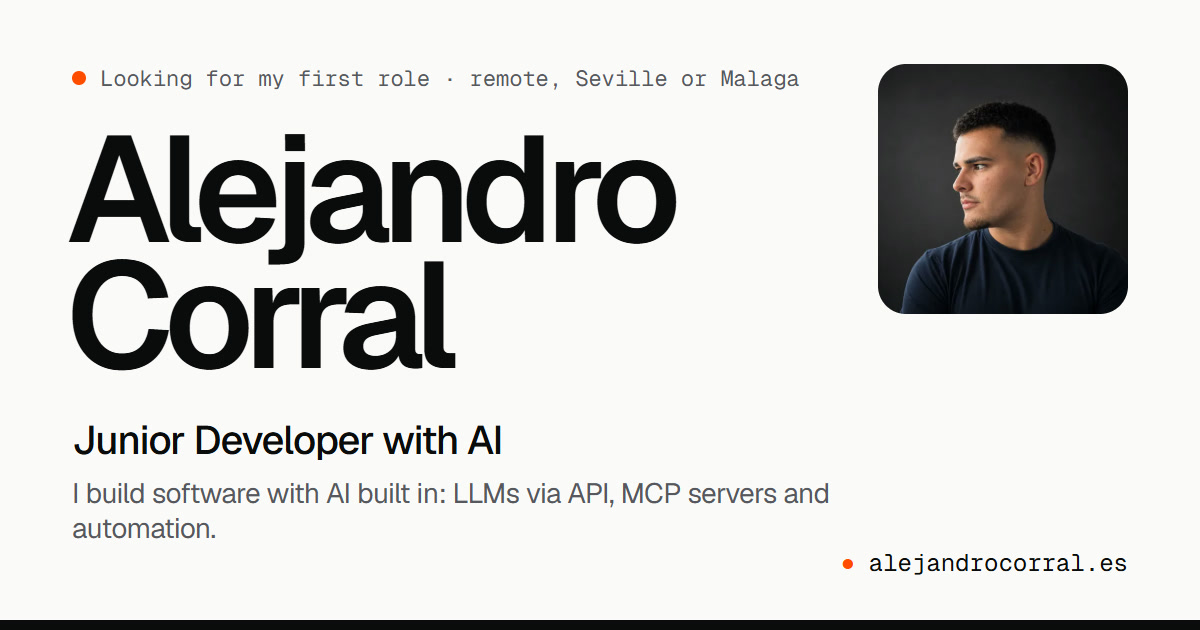
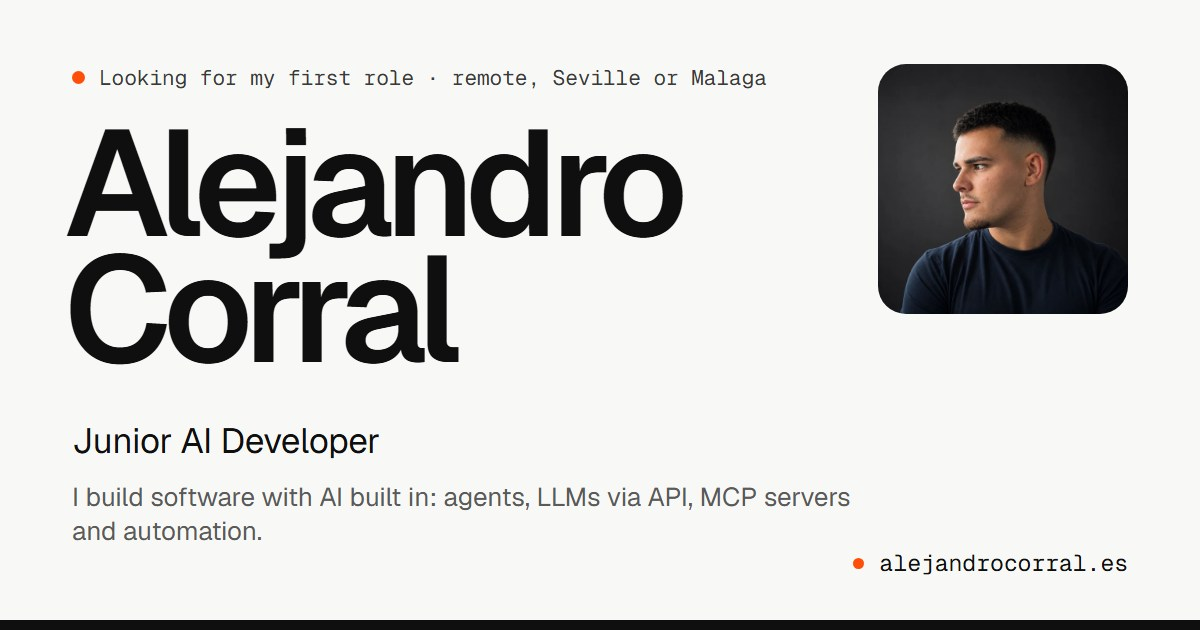
Perfil: AI Developer junior en la web, el CV y las imágenes al compartir

diff --git a/en/index.html b/en/index.html
@@ -3,17 +3,17 @@
 <head>
 <meta charset="utf-8">
 <meta name="viewport" content="width=device-width, initial-scale=1, viewport-fit=cover">
-<title>Alejandro Corral · Junior Developer with AI</title>
-<meta name="description" content="Alejandro Corral Carrasco, junior developer with AI (web and multiplatform development diplomas) based in Jerez, Spain: LLM integration via API, MCP servers and AI automation.">
+<title>Alejandro Corral · Junior AI Developer</title>
+<meta name="description" content="Alejandro Corral Carrasco, junior AI developer (web and multiplatform development diplomas) based in Jerez, Spain: AI agents, LLM integration via API, MCP servers and AI automation.">
 <link rel="canonical" href="https://alejandrocorral.es/en/">
-<meta property="og:title" content="Alejandro Corral · Junior Developer with AI">
+<meta property="og:title" content="Alejandro Corral · Junior AI Developer">
 <meta property="og:description" content="Web and multiplatform development diplomas. I build software with generative AI built in: LLMs via API, MCP servers and process automation.">
 <meta property="og:url" content="https://alejandrocorral.es/en/">
 <meta property="og:type" content="website">
 <meta property="og:image" content="https://alejandrocorral.es/assets/img/og-en.jpg">
 <meta property="og:image:width" content="1200">
 <meta property="og:image:height" content="630">
-<meta property="og:image:alt" content="Alejandro Corral, Junior Developer with AI">
+<meta property="og:image:alt" content="Alejandro Corral, Junior AI Developer">
 <meta property="og:locale" content="en_GB">
 <meta property="og:locale:alternate" content="es_ES">
 <meta name="twitter:card" content="summary_large_image">
@@ -36,7 +36,7 @@
   "@context": "https://schema.org",
   "@type": "Person",
   "name": "Alejandro Corral Carrasco",
-  "jobTitle": "Junior Developer with AI",
+  "jobTitle": "Junior AI Developer",
   "url": "https://alejandrocorral.es/en/",
   "email": "mailto:alejandrocorral509@gmail.com",
   "address": { "@type": "PostalAddress", "addressLocality": "Jerez de la Frontera", "addressRegion": "Cádiz", "addressCountry": "ES" },
@@ -82,7 +82,7 @@
     </h1>
     <div class="hero-grid">
       <div class="hero-main">
-        <p class="claim">Junior Developer with AI. <em>I build software with AI built in: LLMs via API, MCP servers and process automation.</em></p>
+        <p class="claim">Junior AI Developer. <em>I build software with AI built in: agents, LLMs via API, MCP servers and process automation.</em></p>
         <div class="row">
           <a class="btn" href="#work">See projects</a>
           <a class="btn line" href="../cv.pdf" target="_blank" rel="noopener" data-goatcounter-click="cv-portada-en">CV (PDF, Spanish)</a>
@@ -395,7 +395,7 @@
           <h3>about me</h3>
           <div class="about">
             <img src="../assets/img/foto.webp" alt="Alejandro Corral Carrasco" width="72" height="72" loading="lazy" decoding="async">
-            <p>I'm from Jerez and I like building software that solves real problems. I'm looking for my first role as a junior developer, remote or in Seville or Malaga.</p>
+            <p>I'm from Jerez and I like building software that solves real problems. I'm looking for my first role as a junior AI developer, remote or in Seville or Malaga.</p>
           </div>
         </div>
         <div data-in>

diff --git a/index.html b/index.html
@@ -3,17 +3,17 @@
 <head>
 <meta charset="utf-8">
 <meta name="viewport" content="width=device-width, initial-scale=1, viewport-fit=cover">
-<title>Alejandro Corral · Desarrollador Junior con IA</title>
-<meta name="description" content="Alejandro Corral Carrasco, desarrollador junior con IA (DAW + DAM) en Jerez de la Frontera: integración de LLMs por API, servidores MCP y automatización con IA.">
+<title>Alejandro Corral · AI Developer junior</title>
+<meta name="description" content="Alejandro Corral Carrasco, AI Developer junior (DAW + DAM) en Jerez de la Frontera: agentes, integración de LLMs por API, servidores MCP y automatización con IA.">
 <link rel="canonical" href="https://alejandrocorral.es/">
-<meta property="og:title" content="Alejandro Corral · Desarrollador Junior con IA">
+<meta property="og:title" content="Alejandro Corral · AI Developer junior">
 <meta property="og:description" content="Técnico Superior en DAW y DAM. Desarrollo software que integra IA generativa: LLMs por API, servidores MCP y automatización de procesos.">
 <meta property="og:url" content="https://alejandrocorral.es/">
 <meta property="og:type" content="website">
 <meta property="og:image" content="https://alejandrocorral.es/assets/img/og-es.jpg">
 <meta property="og:image:width" content="1200">
 <meta property="og:image:height" content="630">
-<meta property="og:image:alt" content="Alejandro Corral, Desarrollador Junior con IA">
+<meta property="og:image:alt" content="Alejandro Corral, AI Developer junior">
 <meta property="og:locale" content="es_ES">
 <meta property="og:locale:alternate" content="en_GB">
 <meta name="twitter:card" content="summary_large_image">
@@ -36,7 +36,7 @@
   "@context": "https://schema.org",
   "@type": "Person",
   "name": "Alejandro Corral Carrasco",
-  "jobTitle": "Desarrollador Junior con IA",
+  "jobTitle": "AI Developer junior",
   "url": "https://alejandrocorral.es/",
   "email": "mailto:alejandrocorral509@gmail.com",
   "address": { "@type": "PostalAddress", "addressLocality": "Jerez de la Frontera", "addressRegion": "Cádiz", "addressCountry": "ES" },
@@ -82,7 +82,7 @@
     </h1>
     <div class="hero-grid">
       <div class="hero-main">
-        <p class="claim">Desarrollador Junior con IA. <em>Construyo software con IA integrada: LLMs por API, servidores MCP y automatización de procesos.</em></p>
+        <p class="claim">AI Developer junior. <em>Construyo software con IA integrada: agentes, LLMs por API, servidores MCP y automatización de procesos.</em></p>
         <div class="row">
           <a class="btn" href="#trabajo">Ver proyectos</a>
           <a class="btn line" href="cv.pdf" target="_blank" rel="noopener" data-goatcounter-click="cv-portada">CV en PDF</a>
@@ -395,7 +395,7 @@
           <h3>sobre mí</h3>
           <div class="about">
             <img src="assets/img/foto.webp" alt="Alejandro Corral Carrasco" width="72" height="72" loading="lazy" decoding="async">
-            <p>Soy de Jerez y me gusta construir software que resuelva problemas reales. Busco mi primer puesto como desarrollador junior, en remoto o en Sevilla o Málaga.</p>
+            <p>Soy de Jerez y me gusta construir software que resuelva problemas reales. Busco mi primer puesto como AI Developer junior, en remoto o en Sevilla o Málaga.</p>
           </div>
         </div>
         <div data-in>
